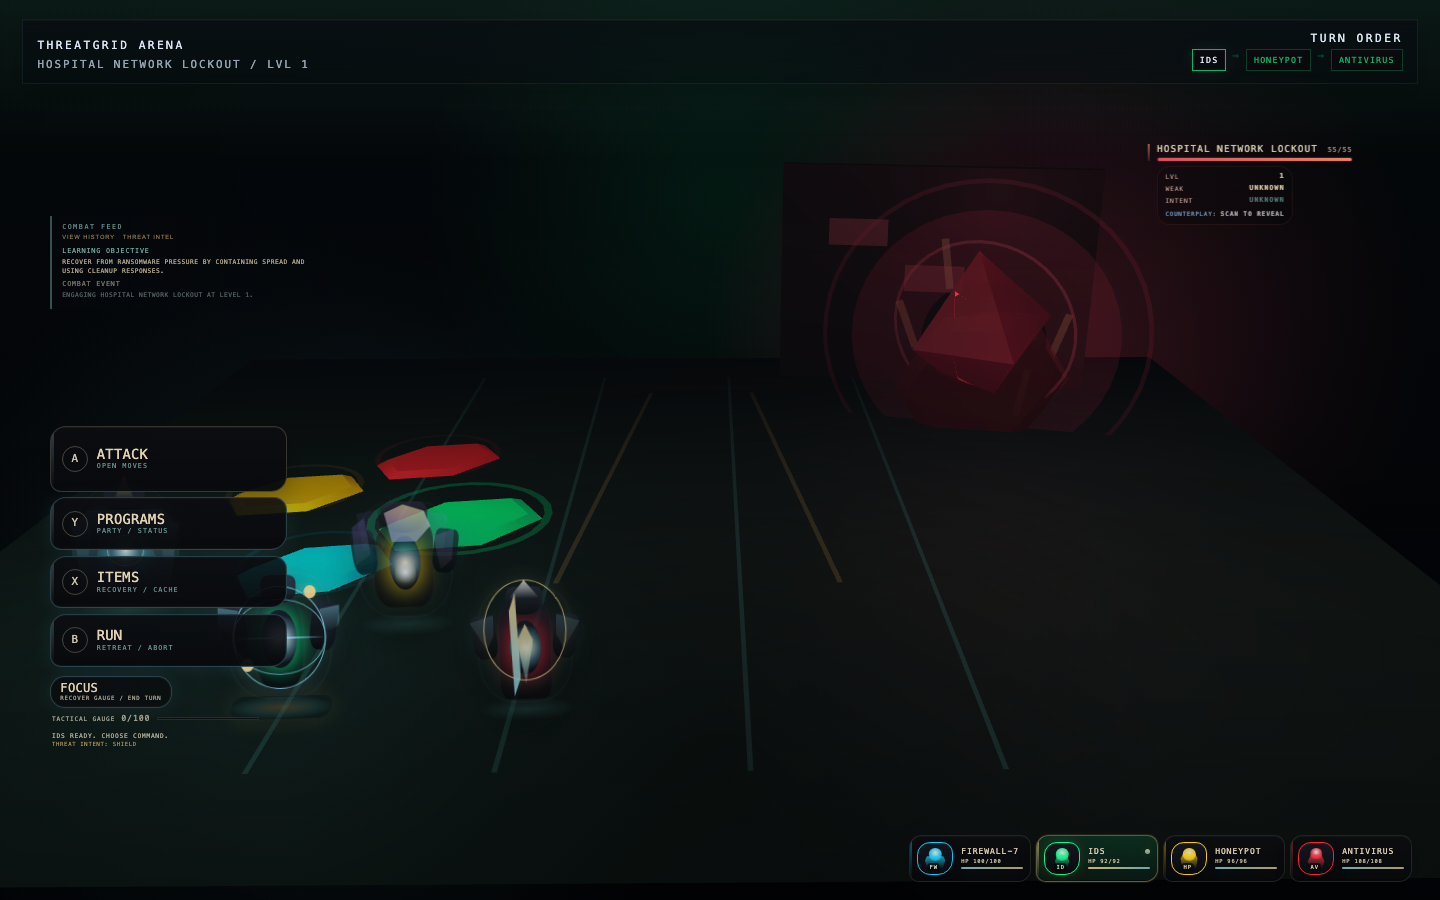
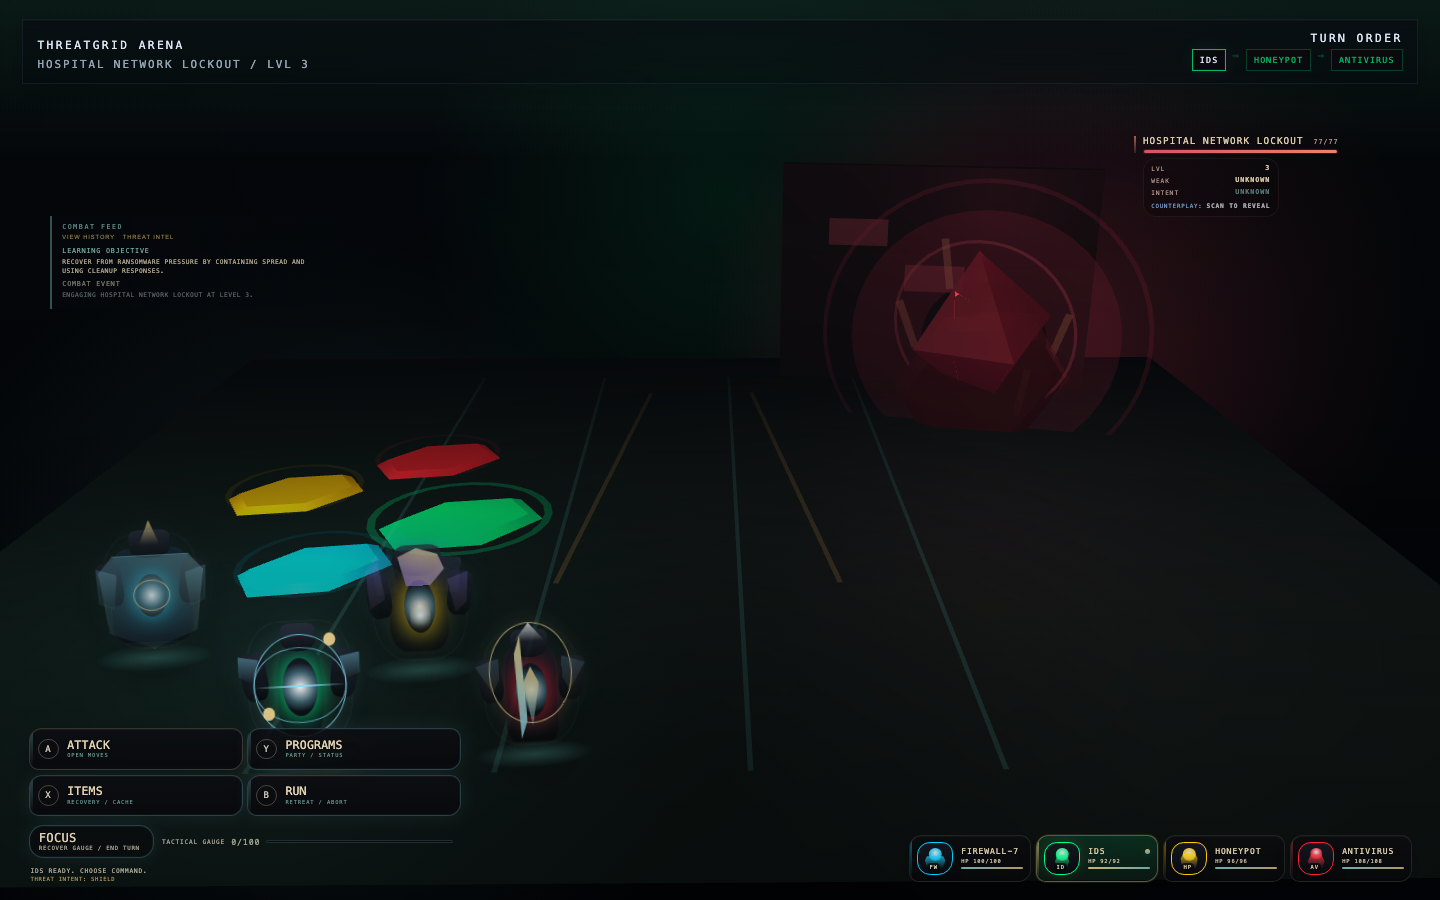
style: ground combat defenders on diorama

diff --git a/css/styles.css b/css/styles.css
@@ -17484,11 +17484,11 @@ body {
 }
 
 .threat-panel.is-combat .combat-shell[data-combat-art="composition-alignment-v1"] .combat-ally-formation {
-  left: clamp(1rem, 4vw, 4.2rem);
-  bottom: clamp(7.2rem, 14vh, 10.6rem);
-  width: min(36rem, 42vw);
-  height: min(24rem, 48vh);
-  transform: perspective(900px) rotateX(0deg) rotateZ(-1.5deg);
+  left: clamp(3rem, 6vw, 6.2rem);
+  bottom: clamp(5.8rem, 10vh, 8rem);
+  width: min(35rem, 41vw);
+  height: min(23rem, 45vh);
+  transform: perspective(900px) rotateX(0deg) rotateZ(-3deg);
 }
 
 .threat-panel.is-combat .combat-shell[data-combat-art="composition-alignment-v1"] .combat-ally-battler {
@@ -17506,56 +17506,98 @@ body {
   content: "";
   position: absolute;
   left: 50%;
-  bottom: 0.25rem;
-  width: clamp(4rem, 7vw, 6.8rem);
-  height: clamp(0.9rem, 1.7vw, 1.45rem);
+  bottom: 0.02rem;
+  width: clamp(4.8rem, 8vw, 7.6rem);
+  height: clamp(1.05rem, 1.9vw, 1.6rem);
   border-radius: 999px;
   background:
-    radial-gradient(ellipse at center, rgba(111, 239, 224, 0.2), rgba(111, 239, 224, 0.05) 48%, transparent 72%);
-  transform: translateX(-50%) skewX(-14deg);
-  opacity: 0.9;
+    radial-gradient(ellipse at center, rgba(111, 239, 224, 0.34), rgba(111, 239, 224, 0.12) 44%, transparent 74%);
+  transform: translateX(-50%) skewX(-18deg);
+  opacity: 1;
   pointer-events: none;
   z-index: -1;
 }
 
 .threat-panel.is-combat .combat-shell[data-combat-art="composition-alignment-v1"] .combat-ally-battler.is-active .combat-battler-sprite-wrap::after {
   background:
-    radial-gradient(ellipse at center, rgba(215, 184, 106, 0.32), rgba(111, 239, 224, 0.12) 48%, transparent 74%);
-  box-shadow: 0 0 26px rgba(215, 184, 106, 0.18);
+    radial-gradient(ellipse at center, rgba(215, 184, 106, 0.46), rgba(111, 239, 224, 0.18) 48%, transparent 76%);
+  box-shadow:
+    0 0 24px rgba(215, 184, 106, 0.2),
+    0 10px 22px rgba(0, 0, 0, 0.22);
 }
 
 .threat-panel.is-combat .combat-shell[data-combat-art="composition-alignment-v1"] .combat-ally-battler.is-slot-1 {
-  left: 0.2rem;
-  bottom: 9.5rem;
+  left: 0.1rem;
+  bottom: 9.2rem;
 }
 
 .threat-panel.is-combat .combat-shell[data-combat-art="composition-alignment-v1"] .combat-ally-battler.is-slot-2 {
-  left: 9.2rem;
-  bottom: 3.2rem;
+  left: 8.6rem;
+  bottom: 2.45rem;
 }
 
 .threat-panel.is-combat .combat-shell[data-combat-art="composition-alignment-v1"] .combat-ally-battler.is-slot-3 {
-  left: 17.6rem;
-  bottom: 8.2rem;
+  left: 16.8rem;
+  bottom: 7.55rem;
 }
 
 .threat-panel.is-combat .combat-shell[data-combat-art="composition-alignment-v1"] .combat-ally-battler.is-slot-4 {
-  left: 25rem;
-  bottom: 2.7rem;
+  left: 23.5rem;
+  bottom: 1.95rem;
 }
 
 .threat-panel.is-combat .combat-shell[data-combat-art="composition-alignment-v1"] .combat-stage-command-cluster,
 .threat-panel.is-combat .combat-shell[data-combat-art="composition-alignment-v1"] .combat-stage-command-submenu {
-  left: clamp(1rem, 3.5vw, 3.4rem);
+  left: clamp(1rem, 2vw, 1.8rem);
   top: auto;
-  bottom: clamp(8.2rem, 17vh, 12rem);
-  width: min(14.8rem, 22vw);
+  bottom: clamp(0.85rem, 2vh, 1.35rem);
+  width: min(27rem, 39vw);
 }
 
 .threat-panel.is-combat .combat-shell[data-combat-art="composition-alignment-v1"] .combat-stage-command-submenu.is-programs,
 .threat-panel.is-combat .combat-shell[data-combat-art="composition-alignment-v1"] .combat-stage-command-submenu.is-items {
   top: auto;
-  bottom: clamp(8.2rem, 17vh, 12rem);
+  bottom: clamp(0.85rem, 2vh, 1.35rem);
+}
+
+.threat-panel.is-combat .combat-shell[data-combat-art="composition-alignment-v1"] .combat-stage-command-stack {
+  grid-template-columns: repeat(2, minmax(0, 1fr));
+  gap: 0.28rem;
+}
+
+.threat-panel.is-combat .combat-shell[data-combat-art="composition-alignment-v1"] .combat-stage-command-slip {
+  min-height: 2.62rem;
+  padding: 0.42rem 0.52rem;
+  border-radius: 0.82rem 0.66rem 0.82rem 0.58rem;
+}
+
+.threat-panel.is-combat .combat-shell[data-combat-art="composition-alignment-v1"] .combat-stage-command-glyph {
+  width: 1.28rem;
+  height: 1.28rem;
+  font-size: 0.56rem;
+}
+
+.threat-panel.is-combat .combat-shell[data-combat-art="composition-alignment-v1"] .combat-stage-command-name {
+  font-size: 0.72rem;
+}
+
+.threat-panel.is-combat .combat-shell[data-combat-art="composition-alignment-v1"] .combat-stage-command-meta {
+  font-size: 0.34rem;
+}
+
+.threat-panel.is-combat .combat-shell[data-combat-art="composition-alignment-v1"] .combat-stage-command-support {
+  grid-template-columns: auto minmax(10rem, 1fr);
+  align-items: center;
+  gap: 0.42rem;
+  width: 100%;
+}
+
+.threat-panel.is-combat .combat-shell[data-combat-art="composition-alignment-v1"] .combat-stage-command-focus {
+  min-width: 7.8rem;
+}
+
+.threat-panel.is-combat .combat-shell[data-combat-art="composition-alignment-v1"] .combat-stage-command-gauge {
+  min-width: 0;
 }
 
 .threat-panel.is-combat .combat-shell[data-combat-art="composition-alignment-v1"] .combat-attack-cluster.command-anchor {
@@ -17574,8 +17616,8 @@ body {
 }
 
 .threat-panel.is-combat .combat-shell[data-combat-art="composition-alignment-v1"] .combat-stage-enemy {
-  top: clamp(5.2rem, 14vh, 9.5rem);
-  right: clamp(2rem, 5vw, 5.6rem);
+  top: clamp(4.8rem, 13vh, 8.8rem);
+  right: clamp(2.8rem, 6vw, 6.6rem);
   width: min(28rem, 30vw);
 }
 
@@ -17591,16 +17633,16 @@ body {
 
 @media (max-width: 1160px) {
   .threat-panel.is-combat .combat-shell[data-combat-art="composition-alignment-v1"] .combat-ally-formation {
-    left: clamp(0.5rem, 2.2vw, 2rem);
-    bottom: clamp(7rem, 13vh, 9rem);
+    left: clamp(1rem, 3.5vw, 2.8rem);
+    bottom: clamp(5.8rem, 10vh, 7rem);
     width: min(30rem, 46vw);
   }
 
   .threat-panel.is-combat .combat-shell[data-combat-art="composition-alignment-v1"] .combat-stage-command-cluster,
   .threat-panel.is-combat .combat-shell[data-combat-art="composition-alignment-v1"] .combat-stage-command-submenu {
     left: clamp(0.8rem, 2.5vw, 2.4rem);
-    bottom: clamp(7.8rem, 15vh, 10.2rem);
-    width: min(13.4rem, 24vw);
+    bottom: clamp(0.7rem, 1.8vh, 1.1rem);
+    width: min(24rem, 44vw);
   }
 
   .threat-panel.is-combat .combat-shell[data-combat-art="composition-alignment-v1"] .combat-feed {
@@ -17611,16 +17653,16 @@ body {
 
 @media (max-width: 920px) {
   .threat-panel.is-combat .combat-shell[data-combat-art="composition-alignment-v1"] .combat-ally-formation {
-    left: clamp(0.35rem, 1.8vw, 1rem);
-    bottom: clamp(6.6rem, 12vh, 8rem);
+    left: clamp(0.6rem, 2vw, 1.3rem);
+    bottom: clamp(5.3rem, 9vh, 6.4rem);
     width: min(25rem, 48vw);
   }
 
   .threat-panel.is-combat .combat-shell[data-combat-art="composition-alignment-v1"] .combat-stage-command-cluster,
   .threat-panel.is-combat .combat-shell[data-combat-art="composition-alignment-v1"] .combat-stage-command-submenu {
     left: clamp(0.65rem, 2vw, 1.6rem);
-    bottom: clamp(7.1rem, 13vh, 9rem);
-    width: min(12.5rem, 32vw);
+    bottom: clamp(0.65rem, 1.6vh, 1rem);
+    width: min(21rem, 52vw);
   }
 
   .threat-panel.is-combat .combat-shell[data-combat-art="composition-alignment-v1"] .combat-stage-enemy {

diff --git a/index.html b/index.html
@@ -6,7 +6,7 @@
   <meta name="viewport" content="width=device-width, initial-scale=1.0">
   <title>THREATGRID — Layer 4</title>
   <script src="https://cdnjs.cloudflare.com/ajax/libs/three.js/r128/three.min.js"></script>
-  <link rel="stylesheet" href="css/styles.css?v=combat-composition-v1">
+  <link rel="stylesheet" href="css/styles.css?v=combat-grounding-v1">
 </head>
 <body>
   <div id="app">
@@ -176,7 +176,7 @@
   <script src="js/reward-relic-scene.js"></script>
   <script src="js/combat/combat-animations.js"></script>
   <script src="js/combat/combat-scene.js?v=combat-composition-v1"></script>
-  <script src="js/combat/combat-render.js?v=combat-composition-v1"></script>
+  <script src="js/combat/combat-render.js?v=combat-grounding-v1"></script>
   <script src="js/combat/combat-actions.js?v=dev-harness-v1"></script>
   <script src="js/main.js?v=hologram-hover-v2"></script>
 </body>
